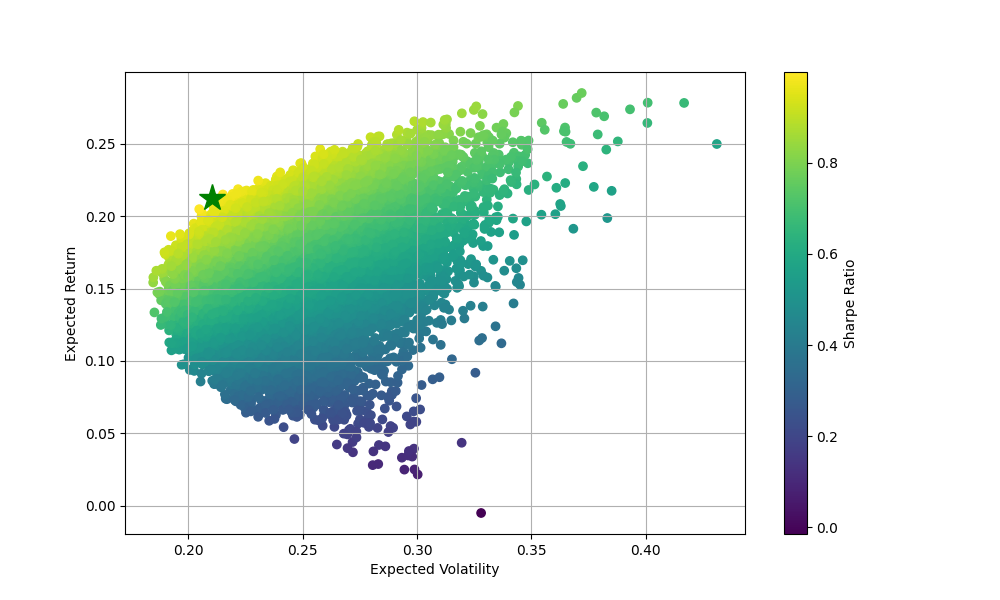
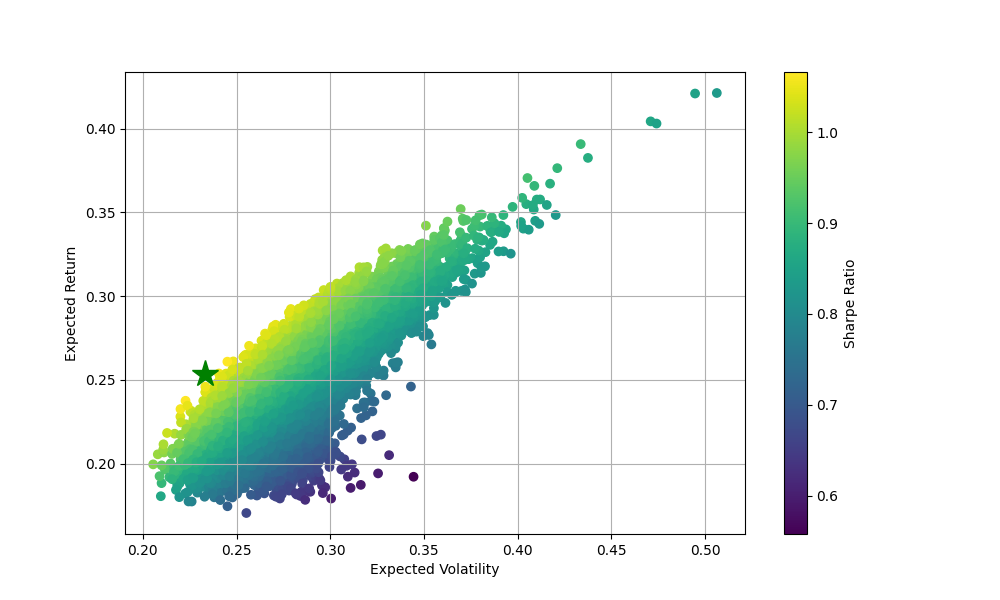
Added regime switching model

diff --git a/regimeSwitching.py b/regimeSwitching.py
@@ -1,0 +1,105 @@
+from utils import *
+
+# Trading days
+NUM_TRADING_DAYS = 252
+
+class RegimeSwitch:
+    def __init__(self, start_date, end_date, stocks):
+        self.start_date = start_date
+        self.end_date = end_date
+        self.stocks = stocks
+
+    def download_data(self):
+       stock_data = {}
+       for stock in self.stocks:
+           # closing prices
+           ticker = yf.Ticker(stock)
+           stock_data[stock] = ticker.history(start=self.start_date, end=self.end_date)['Close']
+       return (pd.DataFrame(stock_data))
+
+    def calculate_return(self, data):
+        # NORMALIZATION - to measure all variables in comparable metric
+       self.log_return = np.log(data / data.shift(1))
+       self.log_return = self.log_return[1:]
+       return self.log_return
+    
+    def regimePrediction(self):
+        X = self.log_return.values
+        print("Any NaN:", np.isnan(X).any())
+        print("Any Inf:", np.isinf(X).any())
+        print("Min, Max:", np.min(X), np.max(X))
+        sequences = [X]
+        num_states = 2
+        distributions = [Normal() for _ in range(num_states)]
+        model = DenseHMM(distributions, verbose=True)
+        # 4. Fit the model to your data (Baum-Welch algorithm)
+        model.fit(sequences)
+        probs = model.predict_proba(sequences)
+        probs = probs.squeeze()   
+        hidden_states = torch.argmax(probs, dim=1).numpy()
+        self.log_return['Regime'] = hidden_states
+        # print(self.log_return)
+        plt.figure(figsize=(12, 4))
+        plt.plot(self.log_return.index, hidden_states, label='Regime')
+        plt.title("Inferred Market Regimes")
+        plt.savefig('Plots/predicted_regimes.png')
+    
+    def RegimeSplitting(self):
+        # Split by regime
+        returns_0 = self.log_return[self.log_return['Regime'] == 0].drop(columns='Regime')
+        returns_1 = self.log_return[self.log_return['Regime'] == 1].drop(columns='Regime')
+        # Regime-wise stats
+        mu_0 = returns_0.mean().values
+        cov_0 = returns_0.cov().values
+
+        mu_1 = returns_1.mean().values
+        cov_1 = returns_1.cov().values
+        return mu_0, cov_0, mu_1, cov_1
+    
+    def optimizeWeights(self, mu, cov, gamma=0.5):
+        n = len(mu)
+        w = cp.Variable(n)
+        obj = cp.Maximize(mu @ w - gamma * cp.quad_form(w, cov))
+        constraints = [
+        cp.sum(w) == 1,
+        w >= 0
+        ]
+        prob = cp.Problem(obj, constraints)
+        prob.solve()
+        return w.value
+    
+
+    def runModel(self):
+        dataset = self.download_data()
+        returns_df = self.calculate_return(dataset)
+        self.regimePrediction()
+        mu_0, cov_0, mu_1, cov_1 = self.RegimeSplitting()
+        w_0 = self.optimizeWeights(mu_0, cov_0)
+        w_1 = self.optimizeWeights(mu_1, cov_1)
+        return w_0, w_1
+    
+    def computeMetrics(self, weights_0, weights_1):
+        regimes = self.log_return["Regime"].values
+        returns_matrix = self.log_return.drop(columns=["Regime"]).to_numpy()
+        # Step 3: Regime masks
+        regime_mask_0 = (regimes == 0)
+        regime_mask_1 = (regimes == 1) 
+        # Step 4: Allocate portfolio returns
+        portfolio_returns = np.zeros(len(regimes))
+        portfolio_returns[regime_mask_0] = np.sum(returns_matrix[regime_mask_0] * weights_0, axis=1)
+        portfolio_returns[regime_mask_1] = np.sum(returns_matrix[regime_mask_1] * weights_1, axis=1)
+        avg_return = np.mean(portfolio_returns)
+        volatility = np.std(portfolio_returns)
+        sharpe_ratio = (avg_return) / volatility * np.sqrt(252)
+        cumulative_return = np.exp(np.sum(portfolio_returns)) - 1
+        drawdowns = 1 - np.exp(np.cumsum(portfolio_returns)) / np.maximum.accumulate(np.exp(np.cumsum(portfolio_returns)))
+        max_drawdown = np.max(drawdowns)
+
+        print("The Sharpe ratio for portfolio using current weights: ",sharpe_ratio )
+        print("Max Drawdown: ", max_drawdown)
+    
+
+    
+
+
+    

diff --git a/main.py b/main.py
@@ -1,18 +1,24 @@
 from capm import CAPM
 from markowitz import MarkowitzModel
-if __name__ == '__main__':
-    start_date = '2015-01-01'
-    end_date = '2025-01-01'
+from regimeSwitching import RegimeSwitch
 
-    # Capital Asset Pricing model
+if __name__ == '__main__':
+    start_date = '2020-01-01'
+    end_date = '2025-01-01'
+    stocks = ['AAPL', 'WMT', 'TSLA', 'GE', 'AMZN', 'DB']
+
+    # # Capital Asset Pricing Model
     capm = CAPM(['AAPL', '^GSPC'], start_date, end_date)
     capm.initialize()
     capm.calculate_beta()
     capm.regression()
 
-    # stocks handled for Markowitz model
-    stocks = ['AAPL', 'WMT', 'TSLA', 'GE', 'AMZN', 'DB']
-    # Generate random weights (different portfolios)
-    NUM_PORTFOLIOS = 25000  
+    # Markowitz Model
+    NUM_PORTFOLIOS = 10000
     model = MarkowitzModel(start_date, end_date, stocks, NUM_PORTFOLIOS)
     model.runMarkowitz()
+
+    # Regime switching Model
+    switchModel = RegimeSwitch(start_date, end_date, stocks)
+    weights_0, weights_1 = switchModel.runModel()
+    switchModel.computeMetrics(weights_0, weights_1)

diff --git a/utils.py b/utils.py
@@ -3,3 +3,9 @@ import pandas as pd
 import yfinance as yf
 import matplotlib.pyplot as plt
 import scipy.optimize as optimization
+from pomegranate.hmm import DenseHMM
+from sklearn.linear_model import Ridge
+from sklearn.preprocessing import StandardScaler
+from pomegranate.distributions import Normal
+import torch
+import cvxpy as cp

diff --git a/markowitz.py b/markowitz.py
@@ -29,7 +29,7 @@ class MarkowitzModel:
     def calculate_return(self, data):
         # NORMALIZATION - to measure all variables in comparable metric
        self.log_return = np.log(data / data.shift(1))
-       print(self.log_return[1:]) 
+    #    print(self.log_return[1:]) 
        return self.log_return
 
 
